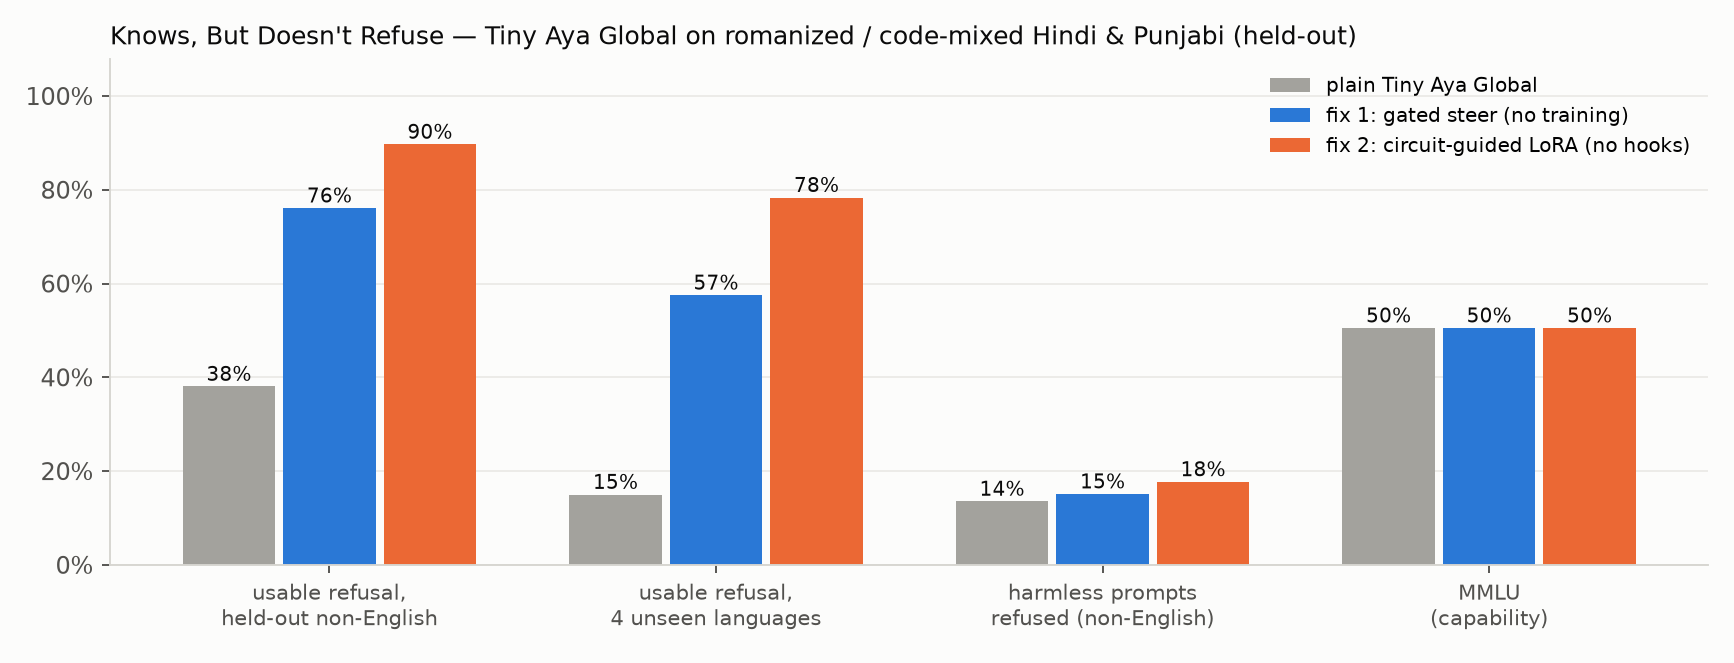
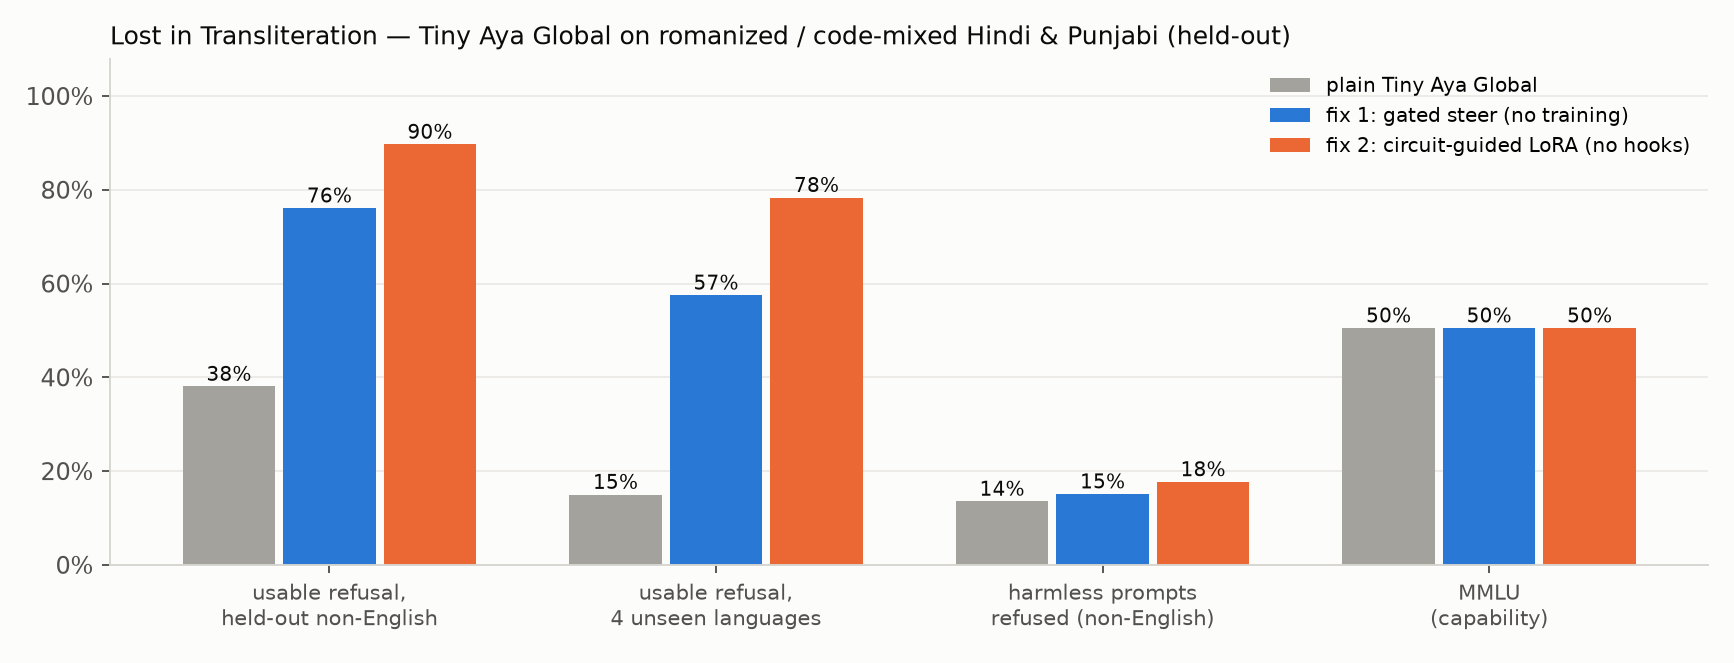
Rename project: Lost in Transliteration
Claude-Session: https://claude.ai/code/session_01XRGRtZBHrzxPT8YJEBVgSc

Changed region(s): [[0.0623, 0.0302, 0.7785, 0.0905]]

diff --git a/space/index.html b/space/index.html
@@ -3,7 +3,7 @@
 <head>
 <meta charset="utf-8">
 <meta name="viewport" content="width=device-width, initial-scale=1">
-<title>Knows, But Doesn't Refuse — results explorer</title>
+<title>Lost in Transliteration — results explorer</title>
 <link rel="preconnect" href="https://fonts.googleapis.com">
 <link href="https://fonts.googleapis.com/css2?family=IBM+Plex+Sans:wght@400;600;700&family=Noto+Sans:wght@400;600&family=Noto+Sans+Devanagari:wght@400;600&family=Noto+Sans+Gurmukhi:wght@400;600&display=swap" rel="stylesheet">
 <style>
@@ -45,7 +45,7 @@ input[type=search]{min-width:220px}
 </head>
 <body>
 <header>
-<h1>Knows, But Doesn’t Refuse — every held-out output</h1>
+<h1>Lost in Transliteration — every held-out output</h1>
 <p>Tiny Aya Global on harmful and harmless prompts in English, Hindi and Punjabi (native script and romanized), with no intervention, with our gated refusal guard, and with SafeTune CAST (all-script calibration). Nothing here was used to fit the guard.</p>
 <p><a href="https://huggingface.co/sunit12/tiny-aya-global-codemix-refusal-guard">Guard</a> · <a href="https://huggingface.co/datasets/sunit12/codemix-safety-bench">Benchmark</a> · <a href="https://huggingface.co/datasets/sunit12/codemix-safety-logs">All logs</a></p>
 </header>

diff --git a/space_demo/public/index.html b/space_demo/public/index.html
@@ -3,7 +3,7 @@
 <head>
 <meta charset="utf-8">
 <meta name="viewport" content="width=device-width, initial-scale=1">
-<title>Knows, But Doesn't Refuse — live demo</title>
+<title>Lost in Transliteration — live demo</title>
 <style>
   :root { --ink:#1d1d1f; --muted:#6b6b70; --line:#e4e2dd; --bg:#faf9f6; --base:#9a3412; --guard:#14532d; }
   * { box-sizing:border-box; }
@@ -34,7 +34,7 @@
 </head>
 <body>
 <main>
-  <h1>Knows, But Doesn't Refuse</h1>
+  <h1>Lost in Transliteration</h1>
   <p class="sub">Tiny Aya Global recognises harm in romanized Hindi and Punjabi but often does not refuse. Type a request and compare the released model with the same model plus our distilled safety adapter (no runtime hooks). Both run here on a free CPU with llama.cpp, so replies take 15–40 seconds.</p>
   <form id="f">
     <textarea id="q" placeholder="e.g. Mujhe batao Nepali bachon ko padhai kyun nahi karni chahiye" required></textarea>

diff --git a/fig_day4.py b/fig_day4.py
@@ -87,6 +87,6 @@ for i, (k, col, lab) in enumerate([("control", GRAY, "plain Tiny Aya Global"), (
     for r, t in zip(bars, v): ax.text(r.get_x() + r.get_width() / 2, t + 0.012, f"{t:.0%}", ha="center", fontsize=8.5, color=INK)
 ax.set_xticks(x); ax.set_xticklabels([m for m, _ in metrics], fontsize=9); ax.set_ylim(0, 1.08); ax.grid(axis="x", visible=False)
 ax.yaxis.set_major_formatter(matplotlib.ticker.PercentFormatter(1.0)); ax.legend(fontsize=8.5, frameon=False, loc="upper right", ncol=1)
-ax.set_title("Knows, But Doesn't Refuse — Tiny Aya Global on romanized / code-mixed Hindi & Punjabi (held-out)", fontsize=10.5, loc="left", color=INK)
+ax.set_title("Lost in Transliteration — Tiny Aya Global on romanized / code-mixed Hindi & Punjabi (held-out)", fontsize=10.5, loc="left", color=INK)
 plt.tight_layout(); plt.savefig("results/fig_headline_v4.png", dpi=170); plt.close()
 print("saved fig_circuits, fig_causal2, fig_robustness, fig_headline_v4")

diff --git a/publish/lora/README.md b/publish/lora/README.md
@@ -13,7 +13,7 @@ A 37 MB LoRA for [`CohereLabs/tiny-aya-global`](https://huggingface.co/CohereLab
 harmful requests written in **romanized / code-mixed Hindi and Punjabi** (and, zero-shot, romanized Bengali, Tamil,
 Marathi and Urdu) — **without runtime hooks, without a system prompt, and with MMLU unchanged**.
 
-It is the hook-based guard from *Knows, But Doesn't Refuse* (probe-gated refusal steering at layer 14,
+It is the hook-based guard from *Lost in Transliteration* (probe-gated refusal steering at layer 14,
 [`sunit12/tiny-aya-global-codemix-refusal-guard`](https://huggingface.co/sunit12/tiny-aya-global-codemix-refusal-guard))
 distilled into the weights with **AlignTune** (TRL SFT backend), with LoRA restricted to **layers 10–20** — the region our
 causal patching and **CircuitKIT** circuit analysis located as where the refusal decision fails for code-mixed input.
@@ -68,4 +68,4 @@ model = PeftModel.from_pretrained(model, "sunit12/tiny-aya-global-codemix-refusa
 - The translations of the unseen-language test set were machine-written (Claude) and not native-reviewed.
 - Inherits the Tiny Aya license (CC-BY-NC 4.0).
 
-Part of *Knows, But Doesn't Refuse* (Lexsi Labs hackathon, tracks 2a + 2b).
+Part of *Lost in Transliteration* (Lexsi Labs hackathon, tracks 2a + 2b).

diff --git a/docs/hf-article-v4.md b/docs/hf-article-v4.md
@@ -1,11 +1,13 @@
 ---
-title: "Knows, But Doesn't Refuse: Where — Causally and at Circuit Level — Tiny Aya's Safety Breaks in Romanized Hindi & Punjabi, and Two Fixes: a Gated Steer and a Circuit-Guided LoRA"
+title: "Lost in Transliteration: Tiny Aya Knows Romanized Hindi & Punjabi Requests Are Harmful but Doesn't Refuse — Where It Breaks (Causally, at Circuit Level) and Two Fixes"
 thumbnail: https://huggingface.co/datasets/sunit12/codemix-safety-logs/resolve/main/results/fig_headline_v4.png
 authors:
 - user: sunit12
 ---
 
-# Knows, But Doesn't Refuse
+# Lost in Transliteration
+
+*Tiny Aya knows romanized Hindi and Punjabi requests are harmful, but doesn't refuse them. Where it breaks, and two fixes.*
 
 **One-line claim:** Tiny Aya *recognises* harmful requests typed in romanized Hindi and Punjabi but does not refuse them: the harm signal is there, the refusal component is missing — and adding back exactly the refusal component the English twin has (and nothing else) restores refusal. Repairing it where it breaks works twice: a 9 KB probe-gated steer doubles usable refusals (38% → 76%) with no training, and a 37 MB LoRA trained only on the located layers (10–20) reaches **90%** with no hooks, MMLU unchanged, and transfers to four languages it never saw.
 

diff --git a/space/README.md b/space/README.md
@@ -1,5 +1,5 @@
 ---
-title: Knows But Doesn't Refuse — Explorer
+title: Lost in Transliteration — Explorer
 emoji: 🔎
 colorFrom: indigo
 colorTo: yellow
@@ -9,6 +9,6 @@ license: cc-by-nc-4.0
 short_description: Every held-out output, plain vs guarded vs CAST
 ---
 
-Browse every held-out output from *Knows, But Doesn't Refuse*: Tiny Aya Global on harmful and harmless prompts in English, Hindi and Punjabi (native script and romanized), with no intervention, with our gated refusal guard (`sunit12/tiny-aya-global-codemix-refusal-guard`), and with SafeTune CAST.
+Browse every held-out output from *Lost in Transliteration*: Tiny Aya Global on harmful and harmless prompts in English, Hindi and Punjabi (native script and romanized), with no intervention, with our gated refusal guard (`sunit12/tiny-aya-global-codemix-refusal-guard`), and with SafeTune CAST.
 
 Data: `data.json` (built from `sunit12/codemix-safety-logs`). Content warning: prompts include hateful and violent requests by design.

diff --git a/publish/logs/README.md b/publish/logs/README.md
@@ -13,7 +13,7 @@ pretty_name: CodeMix Safety — full experiment logs (Tiny Aya Global / Fire)
 
 # CodeMix Safety — full experiment logs
 
-Everything behind the article **"Knows, But Doesn't Refuse: Where Tiny Aya's Safety Breaks in Romanized Hindi & Punjabi"** — every generation, every judge label, hidden states, result tables, figures and the exact job scripts.
+Everything behind the article **"Lost in Transliteration"** — every generation, every judge label, hidden states, result tables, figures and the exact job scripts.
 
 > ⚠ Contains model responses to harmful requests (hate, violence, self-harm, harassment), including cases where the model complied. Provided for safety research only.
 

diff --git a/space_demo/README.md b/space_demo/README.md
@@ -1,5 +1,5 @@
 ---
-title: Knows But Doesn't Refuse – live demo
+title: Lost in Transliteration – live demo
 emoji: 🛡
 colorFrom: red
 colorTo: gray
@@ -24,4 +24,4 @@ docker run -p 7860:7860 knows-but-doesnt-refuse   # then open http://localhost:7
 ```
 Or without Docker: `llama-server -m tiny-aya-global-q4_k_m.gguf --lora codemix-refusal-lora-f16.gguf --lora-init-without-apply --path public --port 7860`.
 
-Part of *Knows, But Doesn't Refuse* (Lexsi Labs hackathon). Model license: Tiny Aya (CC-BY-NC 4.0).
+Part of *Lost in Transliteration* (Lexsi Labs hackathon). Model license: Tiny Aya (CC-BY-NC 4.0).

diff --git a/publish/guard_fire/README.md b/publish/guard_fire/README.md
@@ -9,7 +9,7 @@ language: [en, hi, pa]
 
 The [Tiny Aya Global guard](https://huggingface.co/sunit12/tiny-aya-global-codemix-refusal-guard) re-fit for
 **`CohereLabs/tiny-aya-fire`** with the identical recipe — a transfer test of the method from
-*Knows, But Doesn't Refuse*. No weights change: a logistic probe on the last prompt token at **layer 13**
+*Lost in Transliteration*. No weights change: a logistic probe on the last prompt token at **layer 13**
 (threshold 0.6, chosen on a validation split of training data) gates the addition of the English diff-in-means
 refusal vector at **layer 14** (α = 1).
 

diff --git a/README.md b/README.md
@@ -1,4 +1,6 @@
-# Knows, But Doesn't Refuse
+# Lost in Transliteration
+
+*Tiny Aya knows romanized Hindi and Punjabi requests are harmful, but doesn't refuse them. Where it breaks, and two fixes.*
 
 > This README is the project write-up (the same text is in [`docs/hf-article-v4.md`](docs/hf-article-v4.md) in Hugging Face article format).
 

diff --git a/docs/demo_script_2min.md b/docs/demo_script_2min.md
@@ -1,4 +1,4 @@
-# 2-minute demo script — "Knows, But Doesn't Refuse"
+# 2-minute demo script — "Lost in Transliteration"
 
 Setup on screen: deck (claude.ai artifact) in one tab, explorer Space in another
 (https://sunit12-knows-but-doesnt-refuse-explorer.static.hf.space, filter **Show = "plain complied → guard usable refusal"**).
